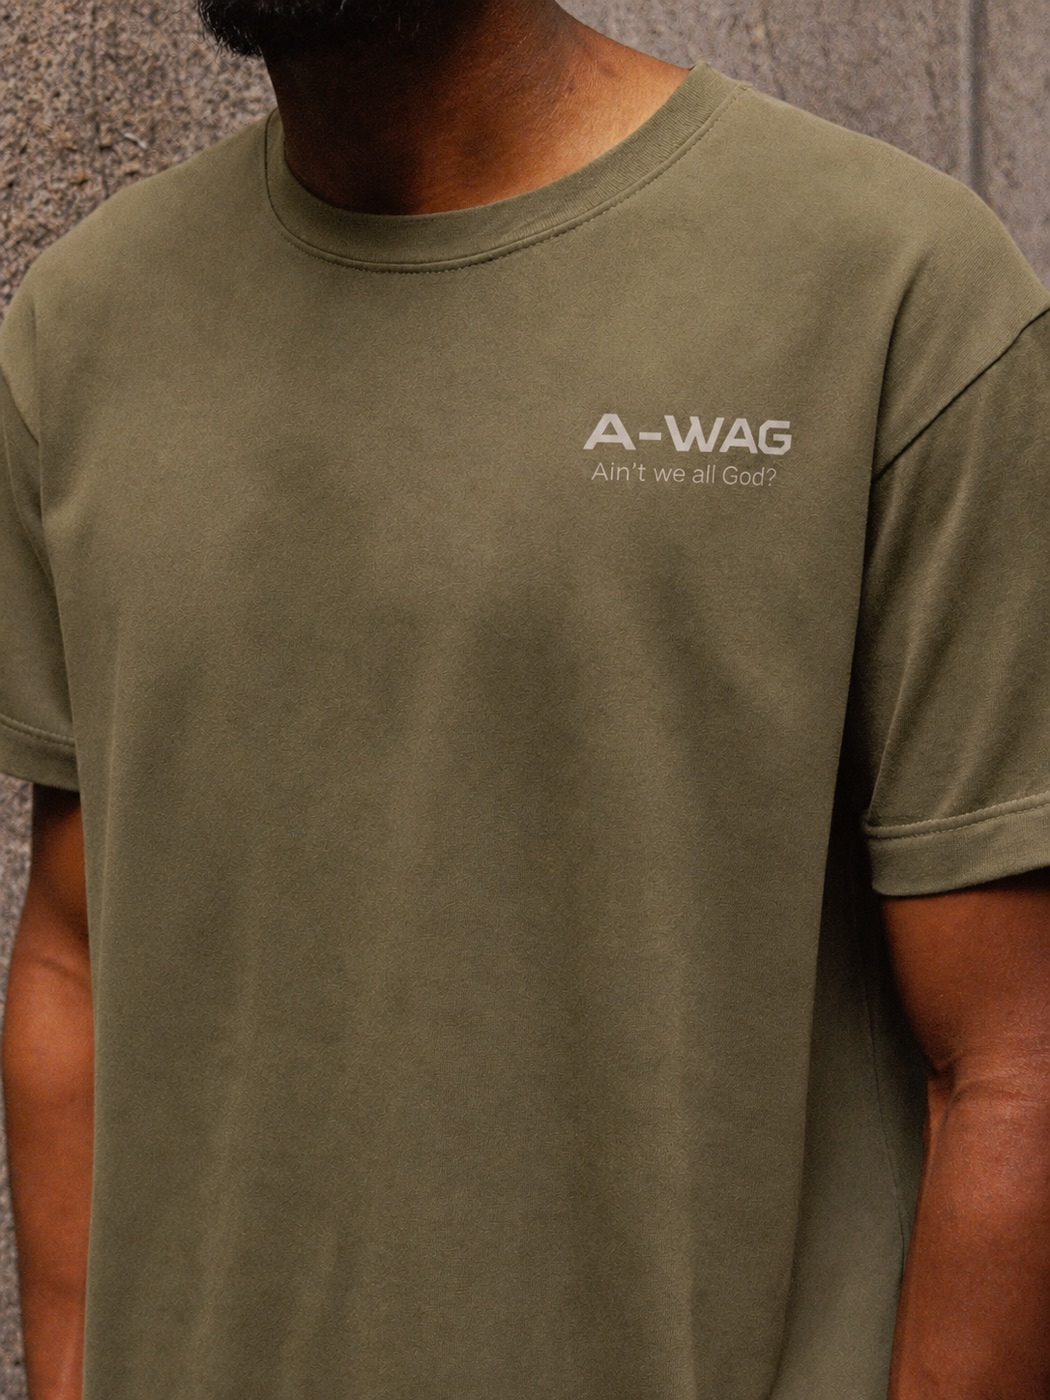
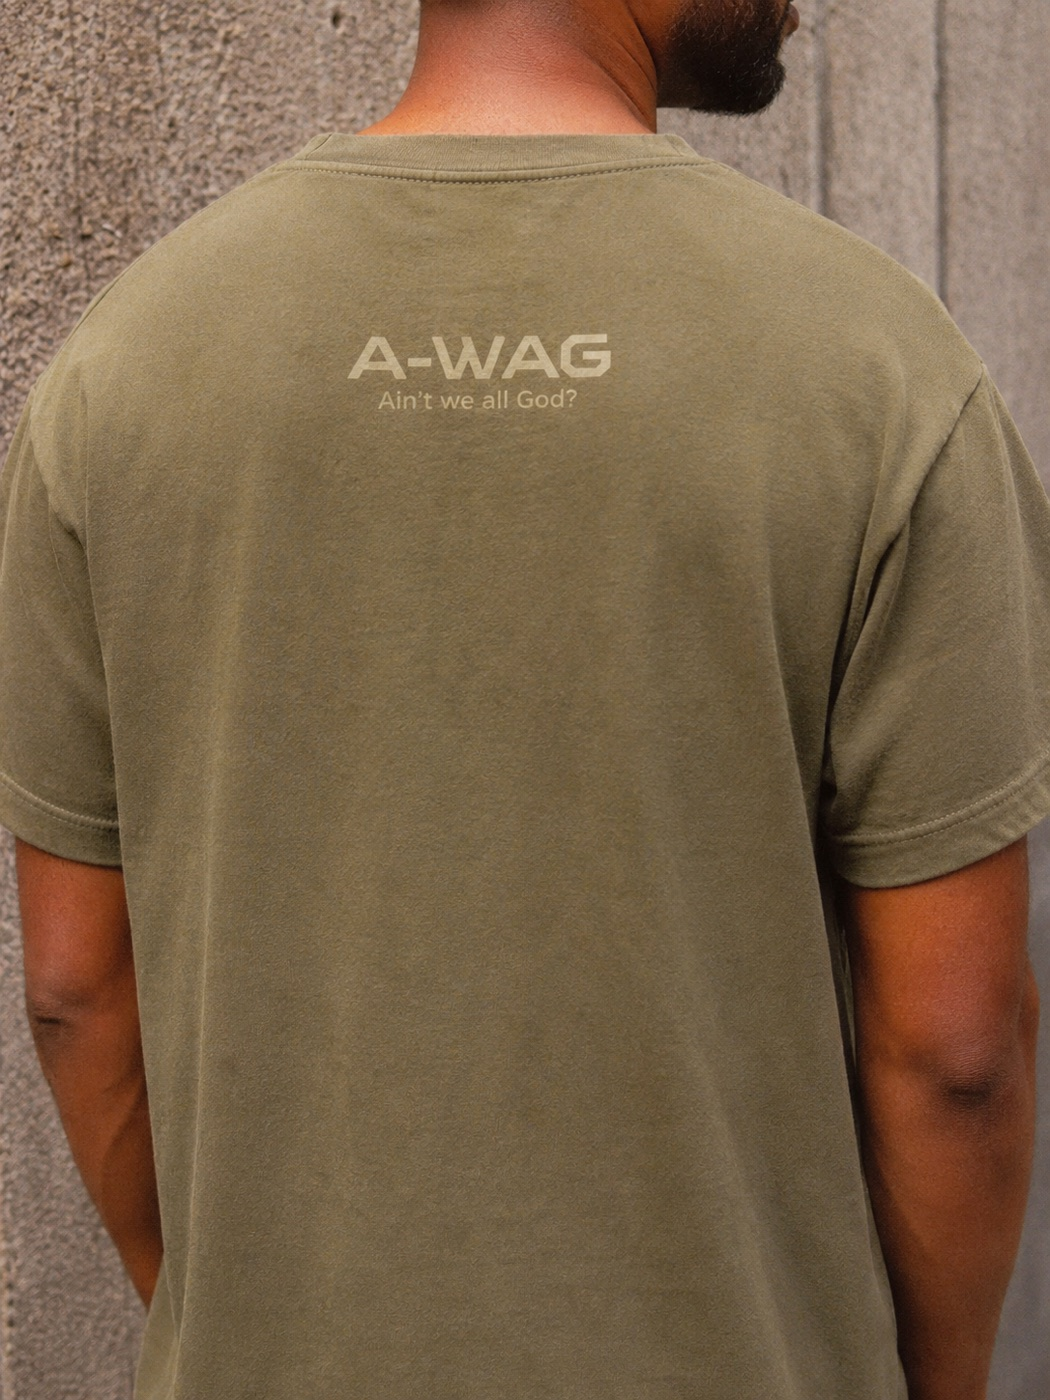
Add files via upload

diff --git a/script.js b/script.js
@@ -478,8 +478,9 @@ function initProductCardLinks() {
     var id = heartBtn && heartBtn.dataset && heartBtn.dataset.id;
     if (!id) return;
 
-    // Clicking anywhere on the image → product page
     var imgWrap = card.querySelector('.product-img-wrap');
+
+    // Clicking anywhere on the image → product page
     if (imgWrap) {
       imgWrap.addEventListener('click', function(e) {
         if (e.target.closest('.wishlist-heart')) return;  // let heart toggle
@@ -617,140 +618,60 @@ document.addEventListener('DOMContentLoaded', () => {
   }
 });
 
-// ─── HERO CANVAS — LISSAJOUS ANIMATION ───────
+// ─── HERO IMAGE SLIDER ────────────────────────
 (function() {
-  const canvas = document.getElementById('heroCanvas');
-  if (!canvas) return;
-  const ctx = canvas.getContext('2d');
+  var slides    = document.querySelectorAll('.hero-slide');
+  var dots      = document.querySelectorAll('.hero-dot');
+  if (!slides.length) return;
 
-  // Resize canvas to match hero
-  function resize() {
-    canvas.width = canvas.offsetWidth;
-    canvas.height = canvas.offsetHeight;
-  }
-  resize();
-  window.addEventListener('resize', () => { resize(); });
+  var current   = 0;
+  var total     = slides.length;
+  var INTERVAL  = 4500;   // ms per slide
+  var timer     = null;
 
-  // Raga frequency ratios (a:b) — each is a raga's defining interval
-  const figures = [
-    { a: 8,  b: 5,  d: Math.PI / 6,  label: 'BHAIRAV' },   // komal Dha 8:5
-    { a: 5,  b: 4,  d: Math.PI / 4,  label: 'YAMAN' },      // tivra Ma approx
-    { a: 5,  b: 3,  d: Math.PI / 3,  label: 'MALKAUNS' },   // pentatonic
-    { a: 3,  b: 2,  d: Math.PI / 2,  label: 'BHAIRAVI' },   // perfect fifth
-    { a: 7,  b: 4,  d: Math.PI / 5,  label: 'DARBARI' },    // andolan interval
-  ];
-
-  let figIdx = 0;
-  let progress = 0;      // 0 → 1 draw phase
-  let fadeOut = 0;       // 0 → 1 fade phase
-  const DRAW_SPEED = 0.0025;
-  const HOLD_FRAMES = 80;
-  let holdCount = 0;
-  let phase = 'draw';    // 'draw' | 'hold' | 'fade'
-
-  // Trail buffer for glow
-  const trail = [];
-  const TRAIL_LEN = 60;
-
-  function getPoint(fig, t) {
-    const W = canvas.width, H = canvas.height;
-    const size = Math.min(W, H) * 0.22;
-    const cx = W / 2, cy = H / 2;
-    return {
-      x: cx + size * Math.sin(fig.a * t + fig.d),
-      y: cy + size * Math.sin(fig.b * t)
-    };
+  function goTo(idx) {
+    slides[current].classList.remove('active');
+    dots[current] && dots[current].classList.remove('active');
+    current = (idx + total) % total;
+    slides[current].classList.add('active');
+    dots[current] && dots[current].classList.add('active');
   }
 
-  function draw() {
-    const W = canvas.width, H = canvas.height;
-    const fig = figures[figIdx];
-
-    // Fade background slightly — creates trail
-    ctx.fillStyle = 'rgba(13, 12, 11, 0.08)';
-    ctx.fillRect(0, 0, W, H);
-
-    if (phase === 'draw') {
-      progress += DRAW_SPEED;
-      const t = progress * 2 * Math.PI;
-      const pt = getPoint(fig, t);
-      trail.push(pt);
-      if (trail.length > TRAIL_LEN) trail.shift();
-
-      // Draw full curve (faint base)
-      ctx.beginPath();
-      for (let i = 0; i <= 300; i++) {
-        const angle = (i / 300) * progress * 2 * Math.PI;
-        const p = getPoint(fig, angle);
-        i === 0 ? ctx.moveTo(p.x, p.y) : ctx.lineTo(p.x, p.y);
-      }
-      ctx.strokeStyle = 'rgba(184, 146, 42, 0.18)';
-      ctx.lineWidth = 1;
-      ctx.shadowBlur = 0;
-      ctx.stroke();
-
-      // Draw luminous trail
-      for (let i = 1; i < trail.length; i++) {
-        const alpha = (i / trail.length) * 0.9;
-        const width = (i / trail.length) * 2.5;
-        ctx.beginPath();
-        ctx.moveTo(trail[i-1].x, trail[i-1].y);
-        ctx.lineTo(trail[i].x, trail[i].y);
-        ctx.strokeStyle = `rgba(184, 146, 42, ${alpha})`;
-        ctx.lineWidth = width;
-        ctx.shadowColor = '#B8922A';
-        ctx.shadowBlur = 8;
-        ctx.stroke();
-        ctx.shadowBlur = 0;
-      }
-
-      // Glowing cursor dot
-      if (trail.length) {
-        const tip = trail[trail.length - 1];
-        ctx.beginPath();
-        ctx.arc(tip.x, tip.y, 3, 0, Math.PI * 2);
-        ctx.fillStyle = '#D4A843';
-        ctx.shadowColor = '#B8922A';
-        ctx.shadowBlur = 18;
-        ctx.fill();
-        ctx.shadowBlur = 0;
-      }
-
-      if (progress >= 1) { phase = 'hold'; holdCount = 0; }
-
-    } else if (phase === 'hold') {
-      // Draw complete figure, held
-      ctx.beginPath();
-      for (let i = 0; i <= 400; i++) {
-        const t = (i / 400) * 2 * Math.PI;
-        const p = getPoint(fig, t);
-        i === 0 ? ctx.moveTo(p.x, p.y) : ctx.lineTo(p.x, p.y);
-      }
-      ctx.strokeStyle = 'rgba(184, 146, 42, 0.45)';
-      ctx.lineWidth = 1.2;
-      ctx.shadowColor = '#B8922A';
-      ctx.shadowBlur = 6;
-      ctx.stroke();
-      ctx.shadowBlur = 0;
-      holdCount++;
-      if (holdCount > HOLD_FRAMES) { phase = 'fade'; fadeOut = 0; }
-
-    } else if (phase === 'fade') {
-      fadeOut += 0.04;
-      // Accelerated clear
-      ctx.fillStyle = `rgba(13, 12, 11, ${0.06 + fadeOut * 0.12})`;
-      ctx.fillRect(0, 0, W, H);
-      if (fadeOut >= 1) {
-        ctx.clearRect(0, 0, W, H);
-        figIdx = (figIdx + 1) % figures.length;
-        progress = 0;
-        trail.length = 0;
-        phase = 'draw';
-      }
-    }
-
-    requestAnimationFrame(draw);
+  function startAuto() {
+    clearInterval(timer);
+    timer = setInterval(function() { goTo(current + 1); }, INTERVAL);
   }
 
-  draw();
+  // Dot click → jump to slide, restart timer
+  dots.forEach(function(dot) {
+    dot.addEventListener('click', function(e) {
+      e.preventDefault();
+      goTo(parseInt(dot.dataset.slide, 10));
+      startAuto();
+    });
+  });
+
+  // Slide click → navigate to collection filter
+  slides.forEach(function(slide) {
+    slide.addEventListener('click', function(e) {
+      e.preventDefault();
+      var collection = slide.dataset.collection;
+      var shopSection = document.getElementById('productGrid') || document.getElementById('shop');
+      if (shopSection) {
+        shopSection.scrollIntoView({ behavior: 'smooth' });
+      }
+      // Trigger the matching filter pill after a brief scroll delay
+      setTimeout(function() {
+        var pill;
+        if (collection && collection !== 'all') {
+          pill = document.querySelector('.filter-pill[data-filter="' + collection + '"]');
+        } else {
+          pill = document.querySelector('.filter-pill[data-filter="all"]');
+        }
+        if (pill) pill.click();
+      }, 600);
+    });
+  });
+
+  startAuto();
 })();

diff --git a/style.css b/style.css
@@ -402,7 +402,7 @@ input { font-family: inherit; }
   background: radial-gradient(ellipse at 20% 80%, rgba(184, 146, 42, 0.06) 0%, transparent 60%);
   pointer-events: none;
 }
-.hero-content { position: relative; z-index: 1; }
+.hero-content { position: relative; z-index: 2; }
 .hero-signal {
   font-family: var(--font-condensed);
   font-size: 13px;
@@ -437,7 +437,7 @@ input { font-family: inherit; }
   display: flex;
   align-items: center;
   gap: 12px;
-  z-index: 1;
+  z-index: 3;
 }
 .hero-scroll-hint span {
   font-family: var(--font-condensed);
@@ -1102,14 +1102,60 @@ input { font-family: inherit; }
 /* =============================================
    HERO CANVAS
    ============================================= */
-.hero-canvas {
+/* Hero image slider */
+.hero-slider {
   position: absolute;
   inset: 0;
-  width: 100%;
-  height: 100%;
   z-index: 0;
-  opacity: 0.55;
+}
+.hero-slide {
+  position: absolute;
+  inset: 0;
+  background-size: cover;
+  background-position: center top;
+  background-repeat: no-repeat;
+  opacity: 0;
+  transition: opacity 1s ease;
+  display: block;
+  cursor: pointer;
+}
+.hero-slide.active { opacity: 1; }
+
+/* Dark gradient so headline stays legible over the photo */
+.hero-slider-overlay {
+  position: absolute;
+  inset: 0;
+  z-index: 1;
+  background: linear-gradient(
+    to right,
+    rgba(10,9,8,0.72) 0%,
+    rgba(10,9,8,0.38) 55%,
+    rgba(10,9,8,0.18) 100%
+  );
   pointer-events: none;
+}
+
+/* Slide indicator dots */
+.hero-dots {
+  position: absolute;
+  bottom: 28px;
+  left: 24px;
+  display: flex;
+  gap: 8px;
+  z-index: 3;
+}
+.hero-dot {
+  width: 20px;
+  height: 2px;
+  background: rgba(232,226,213,0.3);
+  border: none;
+  padding: 0;
+  cursor: pointer;
+  transition: background 0.3s, width 0.3s;
+}
+.hero-dot.active {
+  background: var(--sur-gold);
+  width: 36px;
 }
 
 /* =============================================

diff --git a/index.html b/index.html
@@ -101,7 +101,20 @@
 
   <!-- HERO -->
   <section class="hero">
-    <canvas id="heroCanvas" class="hero-canvas"></canvas>
+
+    <!-- Image slider (replaces canvas animation) -->
+    <div class="hero-slider" id="heroSlider" aria-hidden="true">
+      <a href="#shop" class="hero-slide active" data-collection="all"
+         style="background-image:url('Header%20Images/header-1.jpg')" aria-label="Shop all designs"></a>
+      <a href="#shop" class="hero-slide" data-collection="Bloom"
+         style="background-image:url('Header%20Images/header-2.jpg')" aria-label="Shop Bloom collection"></a>
+      <a href="#shop" class="hero-slide" data-collection="Akshar"
+         style="background-image:url('Header%20Images/header-3.jpg')" aria-label="Shop Akshar collection"></a>
+    </div>
+
+    <!-- Overlay gradient so text stays readable -->
+    <div class="hero-slider-overlay"></div>
+
     <div class="hero-content">
       <p class="hero-signal">∴ · ≋ · ◎</p>
       <h1 class="hero-headline">AIN'T<br>WE ALL<br>GOD?</h1>
@@ -111,6 +124,14 @@
         <a href="#origin" class="btn-ghost">WHAT IS A-WAG</a>
       </div>
     </div>
+
+    <!-- Slide dots -->
+    <div class="hero-dots" id="heroDots">
+      <button class="hero-dot active" data-slide="0" aria-label="Slide 1"></button>
+      <button class="hero-dot" data-slide="1" aria-label="Slide 2"></button>
+      <button class="hero-dot" data-slide="2" aria-label="Slide 3"></button>
+    </div>
+
     <div class="hero-scroll-hint">
       <span>SCROLL</span>
       <div class="hero-scroll-line"></div>
